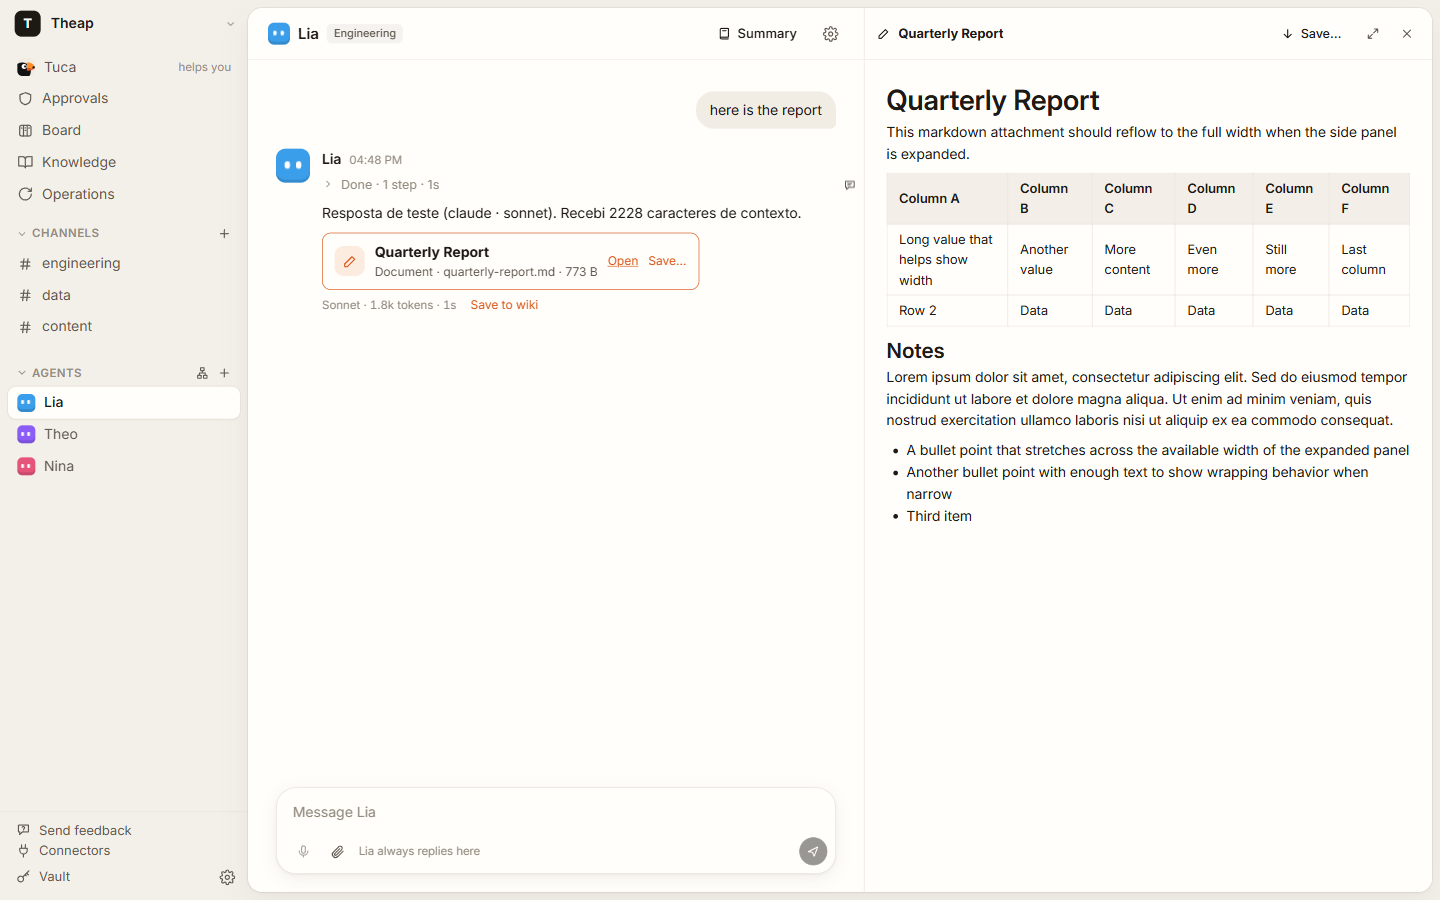
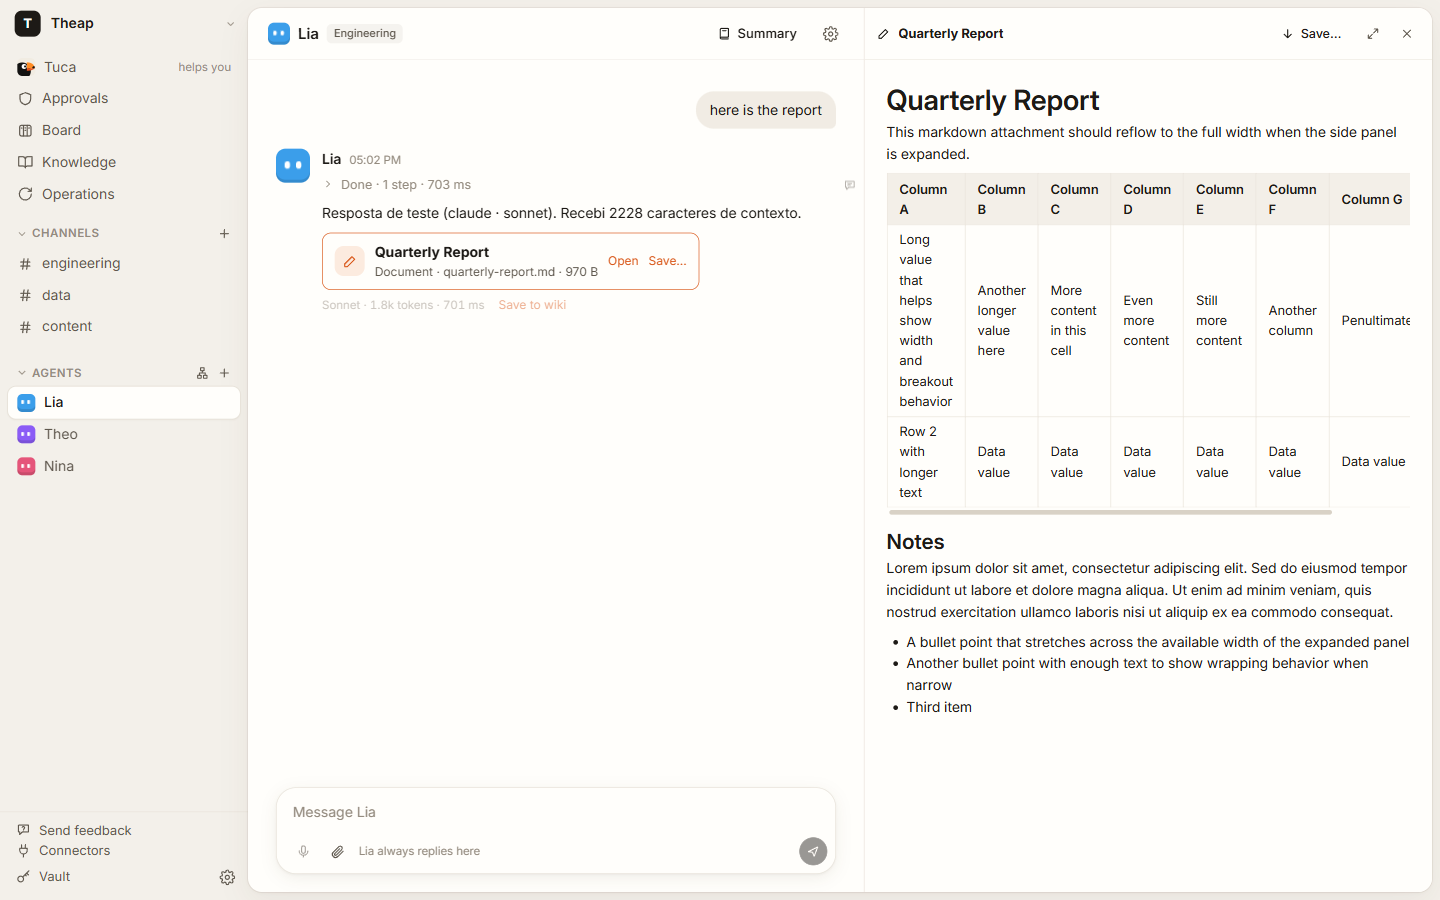
Use wide reading column with table breakout in expanded panel

diff --git a/src/renderer/src/styles.css b/src/renderer/src/styles.css
@@ -3561,9 +3561,33 @@ h3 {
   min-width: 0;
   border-left: 0;
 }
-.side-panel.is-wide .side-panel__doc,
+/* Expanded: wider reading column, not edge-to-edge. Text stays readable;
+   tables/images can break out wider than the text column without a horizontal scrollbar. */
 .side-panel.is-wide .side-panel__text {
-  max-width: none;
+  max-width: min(100%, 960px);
+  margin-inline: auto;
+  width: 100%;
+}
+.side-panel.is-wide .side-panel__doc.md {
+  display: grid;
+  grid-template-columns: minmax(0, 1fr) minmax(0, min(960px, 100%)) minmax(0, 1fr);
+  align-content: start;
+}
+.side-panel.is-wide .side-panel__doc.md > * {
+  grid-column: 2;
+  min-width: 0;
+}
+.side-panel.is-wide .side-panel__doc.md > table,
+.side-panel.is-wide .side-panel__doc.md > pre,
+.side-panel.is-wide .side-panel__doc.md > .md-table-wrap {
+  grid-column: 1 / -1;
+  width: 100%;
+  max-width: 100%;
+  justify-self: center;
+}
+.side-panel.is-wide .side-panel__doc.md > table {
+  width: fit-content;
+  max-width: 100%;
 }
 /* The side panel slides in from its edge. */
 .side-panel {
